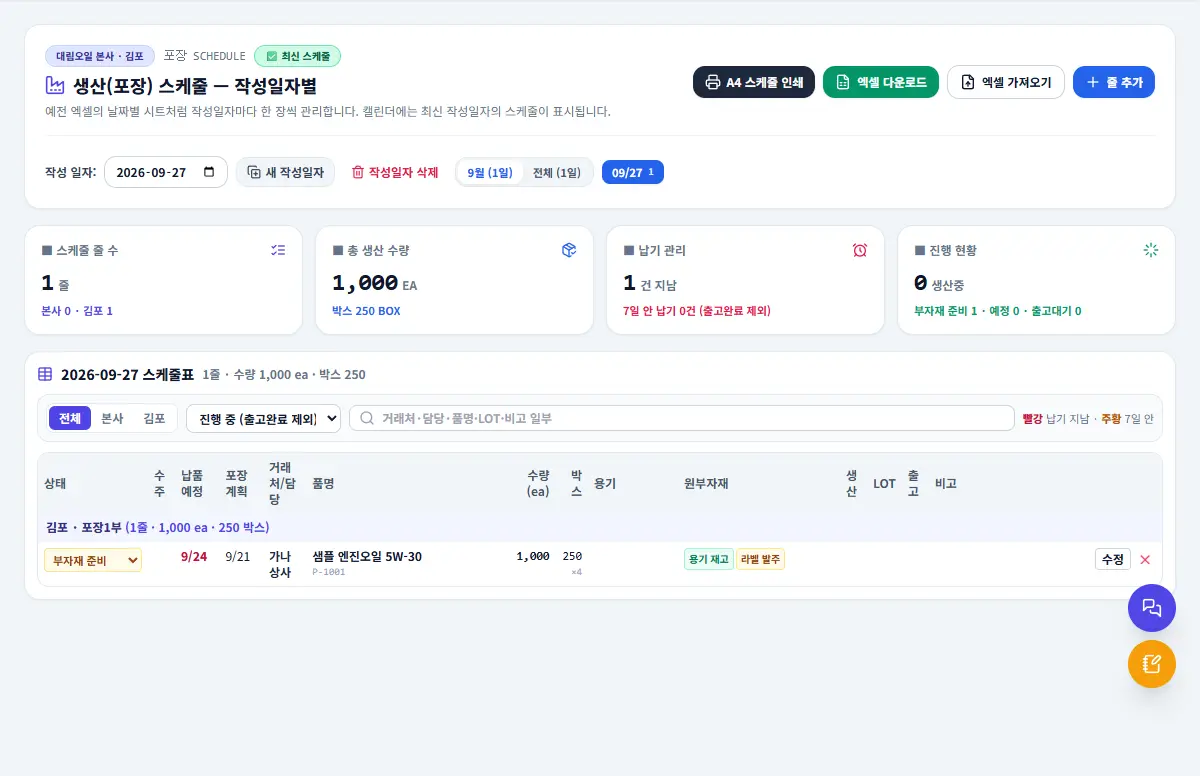
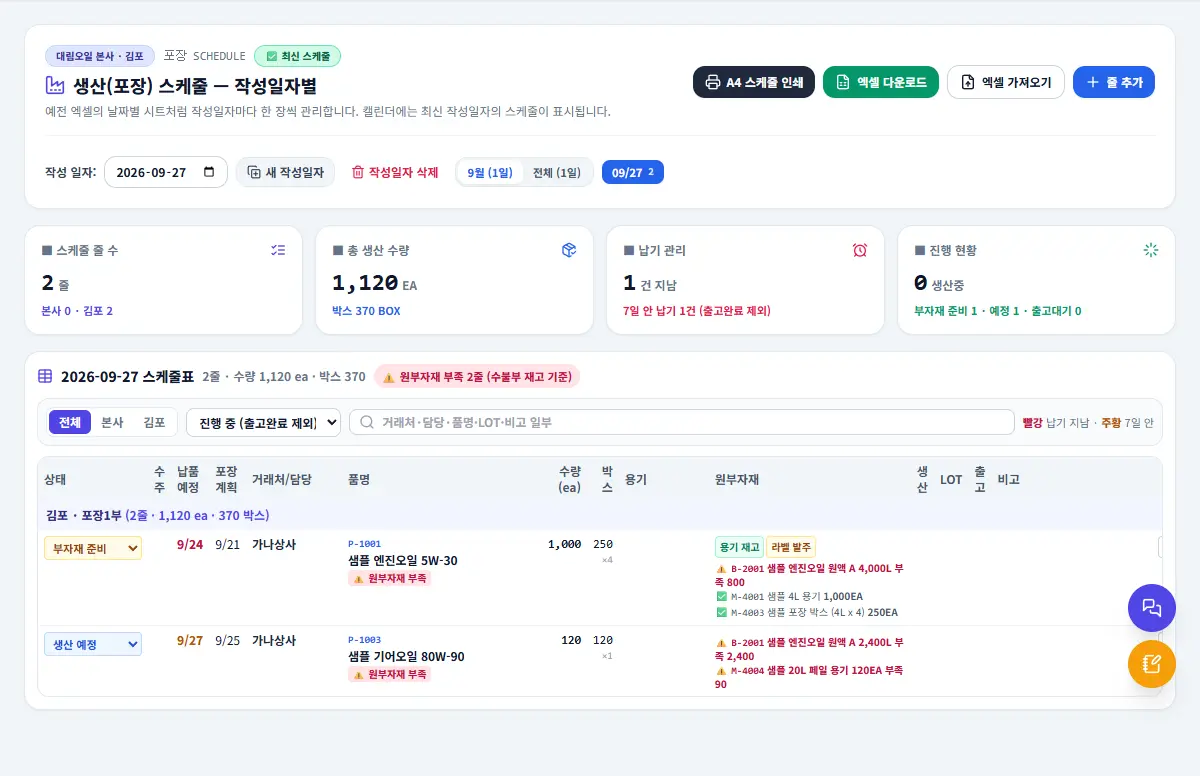
생산스케줄: 품목코드 입력칸, 소요 원액·원부자재(최대 5개) 검색·필요수량 등록과 수불부 재고·부족량 표시
- 입력 창: 품목코드 칸(입력하면 품명·규격 자동, 품명 검색 선택 시 코드 연결), 코드 없이 저장 시 확인
- 소요 원액·원부자재: 코드·품명 일부 검색(완제품 제외), 필요수량, BOM으로 채우기, 같은 품목 중복 방지
- 재고 연동: 수불부 재고(원료·원액 = 원료수불부, 부자재 = 자재수불부) + 창고 재고, 포장계획 빠른 줄부터 차감해 부족량 계산 (완료·출고 제외)
- 표·엑셀·A4 인쇄에 소요 품목과 부족량, '원부자재 부족 n줄' 표시
- DB: wms_production_schedule.mat_items (28_prod_schedule_mat_items.sql, 적용 완료)
- 매뉴얼: 생산(포장) 스케줄 장에 품목코드·소요 원부자재 사용법과 그림 추가

diff --git a/src/components/ProdScheduleTable.js b/src/components/ProdScheduleTable.js
@@ -1,10 +1,13 @@
 import * as XLSX from 'xlsx';
 import { state } from '../services/db.js';
 import { searchMasterItems, localDateStr, matchesQuery } from '../services/searchUtils.js';
-import { listProdSchedule, listProdDates, copyProdDate, deleteProdDate, saveProdRows, deleteProdRow, newProdId, PROD_STATUS, MATERIAL_KEYS } from '../services/prodSchedule.js';
+import { listProdSchedule, listProdDates, copyProdDate, deleteProdDate, saveProdRows, deleteProdRow, newProdId, PROD_STATUS, MATERIAL_KEYS, MAX_MAT_ITEMS } from '../services/prodSchedule.js';
 import { parseScheduleSheet, sheetToRows } from '../services/prodScheduleParse.js';
 import { createIcons, icons } from '../services/icons.js';
 import { esc } from '../services/html.js';
+import { siteOf } from '../services/locations.js';
+import { ledgerStock, getBoms, loadBoms } from '../services/plans.js';
+import { attachItemPicker } from './plans/planCommon.js';
 
 /**
  * 생산(포장) 스케줄표 — 캘린더 아래.
@@ -26,7 +29,43 @@ const matTone = (v) => {
     return 'text-amber-800 bg-amber-50 border-amber-200';
 };
 
+// ---------- 소요 원액·원부자재 재고 (수불부 연동) ----------
+const r3 = (n) => Math.round((Number(n) || 0) * 1000) / 1000;
+const schedSite = (r) => (r.site === '김포' ? '김포' : '본사');
+const invSiteOf = (site) => (site === '김포' ? '김포공장' : '본사');
+// 창고 재고 현황 (그 거점의 모든 창고 합계)
+const invStock = (code, site) => r3(state.inventory.filter(i => i.code === code && siteOf(i.location) === invSiteOf(site)).reduce((s, i) => s + (Number(i.quantity) || 0), 0));
+// 스케줄 줄들의 소요 품목에 재고를 배분한다: 출고완료·완료 줄은 이미 생산했으므로 빼고,
+// 남은 줄은 포장계획(없으면 납품예정)이 빠른 순서로 수불부 재고를 차감 (미정·보류 줄은 맨 뒤).
+// 결과: 줄 id → [{ ...품목, stock(수불부), inv(창고), avail(앞선 줄 사용 후 남은 재고), short(부족량), done }]
+export const allocateMats = (list) => {
+    const out = new Map();
+    const remain = new Map();
+    const whenOf = (r) => r.planDate || r.dueDate || '9999-99-99';
+    const order = [...list].filter(r => (r.matItems || []).length)
+        .sort((a, b) => (a.status === 'HOLD') - (b.status === 'HOLD') || whenOf(a).localeCompare(whenOf(b)) || (Number(a.sort) || 0) - (Number(b.sort) || 0));
+    for (const r of order) {
+        const site = schedSite(r);
+        const done = r.status === 'DONE' || r.status === 'SHIPPED';
+        out.set(r.id, (r.matItems || []).map(it => {
+            const need = Number(it.qty) || 0;
+            const stock = it.code ? ledgerStock(it.code, site).qty : 0;
+            const inv = it.code ? invStock(it.code, site) : 0;
+            if (done || !it.code) return { ...it, stock, inv, avail: stock, short: 0, done };
+            const key = `${it.code}|${site}`;
+            if (!remain.has(key)) remain.set(key, stock);
+            const avail = r3(remain.get(key));
+            remain.set(key, r3(avail - need));
+            return { ...it, stock, inv, avail, short: need > Math.max(0, avail) ? r3(need - Math.max(0, avail)) : 0, done };
+        }));
+    }
+    return out;
+};
+const matLine = (it) => `${it.code ? `${it.code} ` : ''}${it.name} ${fmt(it.qty)}${it.unit || ''}${it.done ? '' : it.short > 0 ? ` (부족 ${fmt(it.short)})` : it.code ? ' (재고 OK)' : ''}`;
+
 export const renderProdSchedule = (el, { showToast = () => {}, onChanged = () => {} } = {}) => {
+    let allocMap = new Map(); // 줄 id → 소요 품목 재고 배분 (draw 때 계산)
+    loadBoms().catch(() => {});
     let rows = [];            // 보고 있는 작성일자의 줄
     let dates = [];           // [{ date, count }] 최신순
     let cur = '';             // 보고 있는 작성일자
@@ -101,12 +140,14 @@ export const renderProdSchedule = (el, { showToast = () => {}, onChanged = () =>
             <td class="p-1.5 font-mono whitespace-nowrap">${esc(md(r.orderDate))}</td>
             <td class="p-1.5 whitespace-nowrap ${dueCls(r)}" title="${esc(r.dueText || r.dueDate)}">${esc(dateOrText(r.dueDate, r.dueText))}</td>
             <td class="p-1.5 whitespace-nowrap" title="${esc(r.planText || r.planDate)}">${esc(dateOrText(r.planDate, r.planText))}</td>
-            <td class="p-1.5"><div class="font-bold text-slate-800">${esc(r.partner)}</div><div class="text-[10px] text-slate-400">${esc(r.manager)}</div></td>
-            <td class="p-1.5 min-w-[200px]"><div class="font-bold text-slate-900">${esc(r.itemName)}</div>${r.itemCode ? `<div class="text-[10px] font-mono text-slate-400">${esc(r.itemCode)}</div>` : ''}</td>
+            <td class="p-1.5 min-w-[96px]"><div class="font-bold text-slate-800">${esc(r.partner)}</div><div class="text-[10px] text-slate-400">${esc(r.manager)}</div></td>
+            <td class="p-1.5 min-w-[200px]">${r.itemCode ? `<div class="text-[10px] font-mono font-bold text-blue-600">${esc(r.itemCode)}</div>` : '<div class="text-[10px] text-slate-300">코드 없음</div>'}<div class="font-bold text-slate-900">${esc(r.itemName)}</div>
+                ${(allocMap.get(r.id) || []).some(it => it.short > 0) ? '<span class="inline-block mt-0.5 px-1 rounded bg-rose-100 text-rose-700 text-[10px] font-black">⚠ 원부자재 부족</span>' : ''}</td>
             <td class="p-1.5 text-right font-mono font-black">${fmt(r.qty)}</td>
             <td class="p-1.5 text-right font-mono whitespace-nowrap">${fmt(boxesOf(r))}${r.perBox ? `<div class="text-[10px] text-slate-400">×${fmt(r.perBox)}</div>` : ''}</td>
             <td class="p-1.5 text-[11px] text-slate-600 min-w-[90px]">${esc(r.container)}</td>
-            <td class="p-1.5"><div class="flex flex-wrap gap-0.5 min-w-[150px]">${MATERIAL_KEYS.filter(([k]) => r.materials?.[k]).map(([k, label]) => `<span class="px-1 py-0.5 rounded border text-[10px] font-bold ${matTone(r.materials[k])}" title="${esc(label)}: ${esc(r.materials[k])}">${esc(label)} ${esc(r.materials[k].split('→').pop().trim().slice(0, 8))}</span>`).join('')}${r.matsDone ? '<span class="px-1 py-0.5 rounded bg-emerald-600 text-white text-[10px] font-black">완비</span>' : ''}</div></td>
+            <td class="p-1.5"><div class="flex flex-wrap gap-0.5 min-w-[150px]">${MATERIAL_KEYS.filter(([k]) => r.materials?.[k]).map(([k, label]) => `<span class="px-1 py-0.5 rounded border text-[10px] font-bold ${matTone(r.materials[k])}" title="${esc(label)}: ${esc(r.materials[k])}">${esc(label)} ${esc(r.materials[k].split('→').pop().trim().slice(0, 8))}</span>`).join('')}${r.matsDone ? '<span class="px-1 py-0.5 rounded bg-emerald-600 text-white text-[10px] font-black">완비</span>' : ''}</div>
+                ${(allocMap.get(r.id) || []).length ? `<div class="mt-1 space-y-0.5 min-w-[190px]">${(allocMap.get(r.id) || []).map(it => `<div class="text-[10px] leading-tight ${it.short > 0 ? 'text-rose-700 font-black' : 'text-slate-600'}" title="수불부 재고 ${fmt(it.stock)} · 창고 재고 ${fmt(it.inv)} · 앞선 줄 사용 후 ${fmt(Math.max(0, it.avail))}">${it.done ? '·' : it.short > 0 ? '⚠' : it.code ? '✅' : '·'} <span class="font-mono">${esc(it.code)}</span> ${esc(it.name)} <b>${fmt(it.qty)}${esc(it.unit || '')}</b>${!it.done && it.short > 0 ? ` 부족 ${fmt(it.short)}` : ''}</div>`).join('')}</div>` : ''}</td>
             <td class="p-1.5 font-mono whitespace-nowrap text-[11px]">${r.prodStart || r.prodEnd ? `${esc(md(r.prodStart))}~${esc(md(r.prodEnd))}` : ''}</td>
             <td class="p-1.5 font-mono text-[11px]">${esc(r.lotNo)}</td>
             <td class="p-1.5 font-mono whitespace-nowrap">${esc(md(r.shipDate))}</td>
@@ -118,6 +159,8 @@ export const renderProdSchedule = (el, { showToast = () => {}, onChanged = () =>
         </tr>`;
 
     const draw = () => {
+        allocMap = allocateMats(rows); // 필터와 무관하게 이 작성일자 전체로 재고 배분
+        const shortRows = rows.filter(r => (allocMap.get(r.id) || []).some(it => it.short > 0)).length;
         const list = filtered();
         const groups = groupsOf(list);
         const sum = (arr) => ({ qty: arr.reduce((s, r) => s + (Number(r.qty) || 0), 0), box: arr.reduce((s, r) => s + (Number(boxesOf(r)) || 0), 0) });
@@ -192,7 +235,8 @@ export const renderProdSchedule = (el, { showToast = () => {}, onChanged = () =>
         </div>
         <div class="bg-white p-3 rounded-2xl border border-slate-200 shadow-sm space-y-2.5">
             <div class="flex items-center gap-2 font-black text-sm text-slate-900"><i data-lucide="table" class="w-4 h-4 text-indigo-600"></i>${esc(cur)} 스케줄표
-                <span class="text-slate-500 font-bold text-xs">${loading ? '불러오는 중…' : `${list.length}줄 · 수량 ${fmt(total.qty)} ea · 박스 ${fmt(total.box)}`}</span></div>
+                <span class="text-slate-500 font-bold text-xs">${loading ? '불러오는 중…' : `${list.length}줄 · 수량 ${fmt(total.qty)} ea · 박스 ${fmt(total.box)}`}</span>
+                ${shortRows ? `<span class="px-2 py-0.5 rounded-full bg-rose-100 text-rose-700 text-[11px] font-black">⚠ 원부자재 부족 ${shortRows}줄 (수불부 재고 기준)</span>` : ''}</div>
             <div class="flex flex-wrap items-center gap-2 p-2 bg-slate-50 border border-slate-200 rounded-xl">
                 <div class="flex bg-white border border-slate-200 p-0.5 rounded-lg font-bold">${[['', '전체'], ['본사', '본사'], ['김포', '김포']].map(([v, t]) => `<button type="button" class="ps-site px-2.5 py-1 rounded-md ${f.site === v ? 'bg-indigo-600 text-white' : 'text-slate-500'}" data-v="${v}">${t}</button>`).join('')}</div>
                 <select id="ps-status-f" class="border border-slate-300 rounded-lg px-2 py-1 font-bold">
@@ -308,9 +352,9 @@ export const renderProdSchedule = (el, { showToast = () => {}, onChanged = () =>
 
     // ---------- 입력·수정 창 ----------
     const openEditor = (orig) => {
-        const r = orig ? { ...orig, materials: { ...(orig.materials || {}) } } : {
+        const r = orig ? { ...orig, materials: { ...(orig.materials || {}) }, matItems: (orig.matItems || []).map(x => ({ ...x })) } : {
             id: newProdId(), sheetDate: cur || today, site: f.site || '본사', line: '포장1부', status: 'PLANNED', orderDate: today, dueText: '', dueDate: '', planText: '', planDate: '',
-            partner: '', manager: '', itemCode: '', itemName: '', spec: '', qty: '', perBox: '', container: '', materials: {}, matsDone: false,
+            partner: '', manager: '', itemCode: '', itemName: '', spec: '', qty: '', perBox: '', container: '', materials: {}, matsDone: false, matItems: [],
             prodStart: '', prodEnd: '', lotNo: '', shipDate: '', notes: '', sort: (Math.max(0, ...rows.map(x => Number(x.sort) || 0)) + 1)
         };
         const m = el.querySelector('#ps-modal');
@@ -329,7 +373,9 @@ export const renderProdSchedule = (el, { showToast = () => {}, onChanged = () =>
                     <label class="block md:col-span-2"><span class="font-bold text-slate-500">거래처</span><input data-k="partner" list="ps-partner-list" value="${esc(r.partner)}" class="ps-f mt-0.5 w-full border border-slate-300 rounded-lg px-2 py-1.5 font-bold" /><datalist id="ps-partner-list">${[...new Set([...rows.map(x => x.partner), ...(state.partners || []).map(p => (typeof p === 'string' ? p : p.name))].filter(Boolean))].map(p => `<option value="${esc(p)}"></option>`).join('')}</datalist></label>
                     <label class="block"><span class="font-bold text-slate-500">영업 담당</span><input data-k="manager" list="ps-manager-list" value="${esc(r.manager)}" class="ps-f mt-0.5 w-full border border-slate-300 rounded-lg px-2 py-1.5 font-bold" /><datalist id="ps-manager-list">${[...new Set(rows.map(x => x.manager).filter(Boolean))].map(p => `<option value="${esc(p)}"></option>`).join('')}</datalist></label>
                     ${inp('lotNo', 'LOT.NO')}
-                    <label class="block md:col-span-3 relative"><span class="font-bold text-slate-500">품명 * <span class="font-normal text-slate-400">(품목마스터에서 고르면 코드 연결)</span></span><input data-k="itemName" value="${esc(r.itemName)}" autocomplete="off" class="ps-f mt-0.5 w-full border border-slate-300 rounded-lg px-2 py-1.5 font-bold" id="ps-item" />
+                    <label class="block"><span class="font-bold text-slate-500">품목코드 <span class="font-normal text-slate-400">(입력하면 품명 자동)</span></span><input data-k="itemCode" id="ps-code" value="${esc(r.itemCode)}" autocomplete="off" placeholder="예: P-1001" class="ps-f mt-0.5 w-full border border-blue-300 rounded-lg px-2 py-1.5 font-mono font-black text-blue-700" />
+                        <span id="ps-code-hint" class="block text-[10px] mt-0.5"></span></label>
+                    <label class="block md:col-span-2 relative"><span class="font-bold text-slate-500">품명 * <span class="font-normal text-slate-400">(코드·품명 일부로 검색해 고르면 코드 연결)</span></span><input data-k="itemName" value="${esc(r.itemName)}" autocomplete="off" class="ps-f mt-0.5 w-full border border-slate-300 rounded-lg px-2 py-1.5 font-bold" id="ps-item" />
                         <div id="ps-item-sg" class="hidden absolute left-0 right-0 top-full z-10 max-h-48 overflow-y-auto bg-white border border-slate-300 rounded-lg shadow-xl"></div></label>
                     ${inp('spec', '규격(L)')}
                     ${inp('qty', '수량(ea)', 'number', 'min="0" step="any"')}${inp('perBox', '박스 입수', 'number', 'min="0" step="any"')}
@@ -340,6 +386,17 @@ export const renderProdSchedule = (el, { showToast = () => {}, onChanged = () =>
                         <label class="flex items-center gap-1 font-bold"><input type="checkbox" data-k="matsDone" class="ps-f" ${r.matsDone ? 'checked' : ''} />원부자재 완비</label></div>
                     <div class="grid grid-cols-2 md:grid-cols-7 gap-1.5">${MATERIAL_KEYS.map(([k, label]) => `<label class="block"><span class="font-bold text-amber-800">${label}</span><input data-mat="${k}" value="${esc(r.materials[k] || '')}" class="ps-m mt-0.5 w-full border border-amber-300 rounded-lg px-1.5 py-1 font-bold bg-white" /></label>`).join('')}</div>
                 </div>
+                <div class="p-2.5 bg-sky-50 border border-sky-200 rounded-xl space-y-2">
+                    <div class="flex flex-wrap items-center justify-between gap-2">
+                        <span class="font-black text-sky-900">소요 원액·원부자재 (최대 ${MAX_MAT_ITEMS}개) · 수불부 재고 연동</span>
+                        <div class="flex gap-1.5">
+                            <button type="button" id="ps-mat-bom" class="px-2 py-1 bg-white border border-sky-300 rounded-lg font-bold text-sky-800" title="품목코드의 BOM(배합비) × 수량으로 채웁니다">BOM으로 채우기</button>
+                            <button type="button" id="ps-mat-add" class="px-2 py-1 bg-sky-600 hover:bg-sky-700 text-white rounded-lg font-bold">+ 품목 추가</button>
+                        </div>
+                    </div>
+                    <div id="ps-mat-rows" class="space-y-1.5"></div>
+                    <p class="text-[10px] text-sky-800">재고는 <b>원료·원액 = 원료수불부</b>, <b>부자재 = 자재수불부</b>의 이 거점 재고입니다 (창고 재고현황도 함께 표시). 같은 자재를 쓰는 다른 줄 중 <b>포장계획이 빠른 줄이 먼저</b> 쓰는 것으로 계산해 부족량을 보여 줍니다.</p>
+                </div>
                 <div class="grid grid-cols-2 md:grid-cols-4 gap-2">${inp('prodStart', '생산 시작일', 'date')}${inp('prodEnd', '생산 완료일', 'date')}${inp('shipDate', '출고일', 'date')}</div>
                 <label class="block"><span class="font-bold text-slate-500">비고</span><textarea data-k="notes" rows="2" class="ps-f mt-0.5 w-full border border-slate-300 rounded-lg px-2 py-1.5">${esc(r.notes)}</textarea></label>
                 <div class="flex justify-end gap-2"><button type="button" class="ps-close px-3 py-2 bg-white border border-slate-300 rounded-lg font-bold">취소</button><button type="button" id="ps-save" class="px-4 py-2 bg-indigo-600 hover:bg-indigo-700 text-white rounded-lg font-black">${orig ? '저장' : '추가'}</button></div>
@@ -348,23 +405,121 @@ export const renderProdSchedule = (el, { showToast = () => {}, onChanged = () =>
         const close = () => { m.classList.add('hidden'); m.classList.remove('flex'); m.innerHTML = ''; };
         m.querySelectorAll('.ps-close').forEach(b => b.addEventListener('click', close));
         const itemInp = m.querySelector('#ps-item');
+        const codeInp = m.querySelector('#ps-code');
+        const codeHint = m.querySelector('#ps-code-hint');
+        const specInp = m.querySelector('.ps-f[data-k="spec"]');
         const sg = m.querySelector('#ps-item-sg');
         let found = [];
+        const showCodeHint = () => {
+            const code = codeInp.value.trim();
+            const mm = code && state.master.find(x => x.code.toLowerCase() === code.toLowerCase());
+            codeHint.className = `block text-[10px] mt-0.5 ${!code ? 'text-slate-400' : mm ? 'text-emerald-700 font-bold' : 'text-rose-600 font-bold'}`;
+            codeHint.textContent = !code ? '품목코드가 있어야 생산계획·재고와 정확히 연동됩니다' : mm ? `✅ ${mm.name}` : '품목 마스터에 없는 코드입니다';
+        };
+        // 품목 선택 → 코드·품명·규격을 함께 채운다
+        const pickItem = (it) => {
+            r.itemCode = it.code;
+            codeInp.value = it.code;
+            itemInp.value = it.name;
+            if (specInp && !specInp.value.trim() && it.spec && it.spec !== '-') specInp.value = it.spec;
+            showCodeHint();
+        };
         itemInp.addEventListener('input', () => {
-            r.itemCode = '';
             found = itemInp.value.trim() ? searchMasterItems(itemInp.value, 12) : [];
-            sg.innerHTML = found.map((it, i) => `<button type="button" data-i="${i}" class="w-full text-left px-2 py-1.5 border-b border-slate-100 hover:bg-indigo-50"><span class="font-mono font-bold">${esc(it.code)}</span> ${esc(it.name)} <span class="text-slate-400">${esc(it.spec && it.spec !== '-' ? it.spec : '')}</span></button>`).join('');
+            sg.innerHTML = found.map((it, i) => `<button type="button" data-i="${i}" class="w-full text-left px-2 py-1.5 border-b border-slate-100 hover:bg-indigo-50"><span class="font-mono font-bold text-blue-600">${esc(it.code)}</span> ${esc(it.name)} <span class="text-slate-400">${esc(it.spec && it.spec !== '-' ? it.spec : '')}</span></button>`).join('');
             sg.classList.toggle('hidden', !found.length);
             sg.querySelectorAll('button').forEach(b => {
                 b.addEventListener('mousedown', (e) => e.preventDefault());
-                b.addEventListener('click', () => { const it = found[Number(b.dataset.i)]; r.itemCode = it.code; itemInp.value = it.name; sg.classList.add('hidden'); });
+                b.addEventListener('click', () => { pickItem(found[Number(b.dataset.i)]); sg.classList.add('hidden'); });
             });
         });
         itemInp.addEventListener('blur', () => setTimeout(() => sg.classList.add('hidden'), 150));
+        codeInp.addEventListener('change', () => {
+            const code = codeInp.value.trim();
+            const mm = code && state.master.find(x => x.code.toLowerCase() === code.toLowerCase());
+            if (mm) pickItem(mm); else showCodeHint();
+        });
+        codeInp.addEventListener('input', showCodeHint);
+        showCodeHint();
+
+        // ---------- 소요 원액·원부자재 (최대 5개) ----------
+        const matHost = m.querySelector('#ps-mat-rows');
+        // 폼의 지금 값(거점·상태·포장계획)으로 다른 줄과 함께 재고를 배분해 이 줄의 재고·부족량을 구한다
+        const formRow = () => {
+            const x = { ...r, matItems: r.matItems };
+            m.querySelectorAll('.ps-f').forEach(el2 => { if (['site', 'status', 'planDate', 'dueDate'].includes(el2.dataset.k)) x[el2.dataset.k] = el2.value; });
+            return x;
+        };
+        const matInfo = () => {
+            const me = formRow();
+            const list = [...(cur === r.sheetDate ? rows : (latestRows || [])).filter(x => x.id !== r.id), me];
+            return allocateMats(list).get(r.id) || [];
+        };
+        const infoHtml = (it) => {
+            if (!it || !it.code) return '<span class="text-slate-400">품목을 고르면 재고가 보입니다</span>';
+            const st = it.done ? '<span class="text-slate-500">완료된 줄 (재고 차감 안 함)</span>'
+                : it.short > 0 ? `<span class="text-rose-700 font-black">⚠ 부족 ${fmt(it.short)} ${esc(it.unit || '')}</span>` : '<span class="text-emerald-700 font-black">✅ 재고 충분</span>';
+            const after = r3(it.avail) === r3(it.stock) ? '' : it.avail >= 0 ? ` · 앞선 줄 사용 후 <b>${fmt(it.avail)}</b>` : ` · 앞선 줄이 다 쓰고 <b>${fmt(-it.avail)}</b> 부족`;
+            return `수불부 <b>${fmt(it.stock)}</b> · 창고 ${fmt(it.inv)}${after} → ${st}`;
+        };
+        const updateInfo = () => { const info = matInfo(); matHost.querySelectorAll('.ps-mat-info').forEach(elx => { elx.innerHTML = infoHtml(info[Number(elx.dataset.i)]); }); };
+        const renderMats = () => {
+            m.querySelector('#ps-mat-add').disabled = r.matItems.length >= MAX_MAT_ITEMS;
+            m.querySelector('#ps-mat-add').classList.toggle('opacity-40', r.matItems.length >= MAX_MAT_ITEMS);
+            matHost.innerHTML = r.matItems.length === 0 ? '<div class="text-[11px] text-sky-700/70 py-1">등록된 소요 품목이 없습니다. [+ 품목 추가]로 원액·원부자재를 검색해 넣거나 [BOM으로 채우기]를 누르세요.</div>'
+                : r.matItems.map((it, i) => `
+                <div class="grid grid-cols-12 gap-1.5 items-start bg-white border border-sky-200 rounded-lg p-1.5">
+                    <div class="col-span-12 md:col-span-5"><input type="text" data-i="${i}" value="${esc(it.name)}" placeholder="품목코드·품명 일부 (원액·원료·부자재)" class="ps-mat-item w-full border border-slate-300 rounded-md px-1.5 py-1 font-bold" autocomplete="off" />
+                        <div class="text-[10px] font-mono text-blue-600 mt-0.5">${esc(it.code || '')}${it.category ? ` · ${esc(it.category)}` : ''}</div></div>
+                    <div class="col-span-5 md:col-span-2"><input type="number" min="0" step="any" data-i="${i}" value="${esc(it.qty ?? '')}" placeholder="필요수량" class="ps-mat-qty w-full border border-slate-300 rounded-md px-1.5 py-1 text-right font-black" /></div>
+                    <div class="col-span-3 md:col-span-1"><input type="text" data-i="${i}" value="${esc(it.unit || '')}" placeholder="단위" class="ps-mat-unit w-full border border-slate-300 rounded-md px-1.5 py-1" /></div>
+                    <div class="col-span-3 md:col-span-3 text-[10px] leading-snug pt-1 ps-mat-info" data-i="${i}"></div>
+                    <div class="col-span-1 text-right"><button type="button" data-i="${i}" class="ps-mat-del text-rose-500 font-black px-1.5 py-1" title="빼기">&times;</button></div>
+                </div>`).join('');
+            matHost.querySelectorAll('.ps-mat-item').forEach(inpx => attachItemPicker(inpx, (it) => {
+                const i = Number(inpx.dataset.i);
+                if (r.matItems.some((x, j) => j !== i && x.code === it.code)) { alert(`[${it.code}] ${it.name}은(는) 이미 넣은 품목입니다. 그 줄의 수량을 고치세요.`); inpx.value = r.matItems[i].name || ''; return; }
+                r.matItems[i] = { ...r.matItems[i], code: it.code, name: it.name, category: it.category || '', unit: it.unit || r.matItems[i].unit || '' };
+                renderMats();
+            }, (it) => it.category !== '완제품'));
+            matHost.querySelectorAll('.ps-mat-qty').forEach(inpx => inpx.addEventListener('input', () => { r.matItems[Number(inpx.dataset.i)].qty = inpx.value === '' ? '' : Number(inpx.value); updateInfo(); }));
+            matHost.querySelectorAll('.ps-mat-unit').forEach(inpx => inpx.addEventListener('input', () => { r.matItems[Number(inpx.dataset.i)].unit = inpx.value.trim(); }));
+            matHost.querySelectorAll('.ps-mat-del').forEach(b => b.addEventListener('click', () => { r.matItems.splice(Number(b.dataset.i), 1); renderMats(); }));
+            updateInfo();
+        };
+        m.querySelector('#ps-mat-add').addEventListener('click', () => {
+            if (r.matItems.length >= MAX_MAT_ITEMS) { alert(`소요 품목은 최대 ${MAX_MAT_ITEMS}개까지입니다.`); return; }
+            r.matItems.push({ code: '', name: '', category: '', unit: '', qty: '' });
+            renderMats();
+            matHost.querySelectorAll('.ps-mat-item')[r.matItems.length - 1]?.focus();
+        });
+        m.querySelector('#ps-mat-bom').addEventListener('click', () => {
+            const code = codeInp.value.trim();
+            const qty = Number(m.querySelector('.ps-f[data-k="qty"]').value) || 0;
+            if (!code) { alert('먼저 품목코드를 넣거나 품명을 검색해 고르세요.'); return; }
+            if (!(qty > 0)) { alert('먼저 수량(ea)을 넣으세요.'); return; }
+            const bom = getBoms()[code];
+            const list = [...(bom?.rawList || []), ...(bom?.subList || [])].filter(x => x.code && Number(x.rate) > 0);
+            if (!list.length) { alert(`[${code}]의 BOM(배합비)이 없습니다.\n제품생산 / 입고 화면에서 이 제품의 원액·부자재 사용량을 넣고 [배합비 저장]을 누르세요.`); return; }
+            if (r.matItems.some(x => x.code || x.name) && !confirm('지금 소요 품목을 BOM 기준으로 바꿀까요?')) return;
+            r.matItems = list.slice(0, MAX_MAT_ITEMS).map(x => {
+                const mm = state.master.find(y => y.code === x.code) || {};
+                return { code: x.code, name: mm.name || x.code, category: mm.category || '', unit: mm.unit || '', qty: r3(Number(x.rate) * qty) };
+            });
+            if (list.length > MAX_MAT_ITEMS) showToast(`BOM 품목이 ${list.length}개라 앞의 ${MAX_MAT_ITEMS}개만 넣었습니다.`);
+            renderMats();
+        });
+        // 거점·상태·포장계획이 바뀌면 재고 배분이 달라진다
+        m.querySelectorAll('.ps-f[data-k="site"], .ps-f[data-k="status"], .ps-f[data-k="planDate"], .ps-f[data-k="dueDate"]').forEach(x => x.addEventListener('change', updateInfo));
+        renderMats();
+
         m.querySelector('#ps-save').addEventListener('click', async () => {
             m.querySelectorAll('.ps-f').forEach(x => { r[x.dataset.k] = x.type === 'checkbox' ? x.checked : x.value.trim(); });
             m.querySelectorAll('.ps-m').forEach(x => { const v = x.value.trim(); if (v) r.materials[x.dataset.mat] = v; else delete r.materials[x.dataset.mat]; });
             if (!r.itemName) { alert('품명을 입력하세요.'); return; }
+            if (!r.itemCode && !confirm('품목코드 없이 저장할까요?\n(품목코드가 있어야 생산계획·BOM·재고와 정확히 연동됩니다)')) return;
+            if (r.matItems.some(x => (x.code || x.name) && !(Number(x.qty) > 0))) { alert('소요 원부자재의 필요수량을 넣으세요.'); return; }
+            r.matItems = r.matItems.filter(x => x.code || x.name);
             try {
                 const [savedRow] = await saveProdRows([r]);
                 // 캘린더에서 연 줄은 지금 보는 작성일자가 아닐 수 있다
@@ -380,11 +535,12 @@ export const renderProdSchedule = (el, { showToast = () => {}, onChanged = () =>
 
     // ---------- 엑셀 내보내기 ----------
     const exportXlsx = (list) => {
-        const head = ['구분', '라인', '상태', '수주일', '납품예정', '포장계획', '거래처', '담당', '품목코드', '품명', '규격(L)', '수량(ea)', '박스입수', '박스량', '용기', ...MATERIAL_KEYS.map(([, l]) => l), '원부자재완비', '생산시작', '생산완료', 'LOT.NO', '출고일', '비고'];
+        const head = ['구분', '라인', '상태', '수주일', '납품예정', '포장계획', '거래처', '담당', '품목코드', '품명', '규격(L)', '수량(ea)', '박스입수', '박스량', '용기', ...MATERIAL_KEYS.map(([, l]) => l), '원부자재완비', '생산시작', '생산완료', 'LOT.NO', '출고일', '비고', '소요 원부자재 (필요수량·부족)'];
         const data = groupsOf(list).flatMap(g => g.rows).map(r => [r.site, r.line, PROD_STATUS[r.status]?.label || r.status, r.orderDate, r.dueText || r.dueDate, r.planText || r.planDate, r.partner, r.manager, r.itemCode, r.itemName, r.spec,
-            r.qty === '' ? '' : Number(r.qty), r.perBox === '' ? '' : Number(r.perBox), boxesOf(r) === '' ? '' : Math.round(boxesOf(r) * 10) / 10, r.container, ...MATERIAL_KEYS.map(([k]) => r.materials?.[k] || ''), r.matsDone ? 'O' : '', r.prodStart, r.prodEnd, r.lotNo, r.shipDate, r.notes]);
+            r.qty === '' ? '' : Number(r.qty), r.perBox === '' ? '' : Number(r.perBox), boxesOf(r) === '' ? '' : Math.round(boxesOf(r) * 10) / 10, r.container, ...MATERIAL_KEYS.map(([k]) => r.materials?.[k] || ''), r.matsDone ? 'O' : '', r.prodStart, r.prodEnd, r.lotNo, r.shipDate, r.notes,
+            (allocMap.get(r.id) || []).map(matLine).join(' / ')]);
         const ws = XLSX.utils.aoa_to_sheet([head, ...data]);
-        ws['!cols'] = head.map((h, i) => ({ wch: [6, 8, 10, 11, 11, 11, 18, 8, 11, 36, 7, 9, 8, 8, 18, 9, 9, 9, 9, 9, 8, 8, 8, 11, 11, 11, 11, 40][i] || 10 }));
+        ws['!cols'] = head.map((h, i) => ({ wch: [6, 8, 10, 11, 11, 11, 18, 8, 11, 36, 7, 9, 8, 8, 18, 9, 9, 9, 9, 9, 8, 8, 8, 11, 11, 11, 11, 40, 70][i] || 10 }));
         const wb = XLSX.utils.book_new();
         XLSX.utils.book_append_sheet(wb, ws, (cur || today).slice(5).replace('-', ''));
         XLSX.writeFile(wb, `생산스케줄_작성${cur || today}.xlsx`);
@@ -399,14 +555,14 @@ export const renderProdSchedule = (el, { showToast = () => {}, onChanged = () =>
             const q = g.rows.reduce((s, r) => s + (Number(r.qty) || 0), 0);
             const b = g.rows.reduce((s, r) => s + (Number(boxesOf(r)) || 0), 0);
             return `<tr class="grp"><td colspan="13">${esc(g.key)} — ${g.rows.length}줄 · ${fmt(q)} ea · ${fmt(b)} 박스</td></tr>`
-                + g.rows.map(r => `<tr>${cell(PROD_STATUS[r.status]?.label)}${cell(md(r.orderDate))}${cell(dateOrText(r.dueDate, r.dueText))}${cell(dateOrText(r.planDate, r.planText))}${cell(`${r.partner}${r.manager ? ` / ${r.manager}` : ''}`)}${cell(r.itemName, 'name')}${cell(fmt(r.qty), 'num')}${cell(`${fmt(boxesOf(r))}${r.perBox ? ` (×${fmt(r.perBox)})` : ''}`, 'num')}${cell(r.container)}${cell(MATERIAL_KEYS.filter(([k]) => r.materials?.[k]).map(([k, l]) => `${l}:${r.materials[k]}`).join(' · '), 'small')}${cell(r.lotNo)}${cell(md(r.shipDate))}${cell(r.notes, 'small')}</tr>`).join('');
+                + g.rows.map(r => `<tr>${cell(PROD_STATUS[r.status]?.label)}${cell(md(r.orderDate))}${cell(dateOrText(r.dueDate, r.dueText))}${cell(dateOrText(r.planDate, r.planText))}${cell(`${r.partner}${r.manager ? ` / ${r.manager}` : ''}`)}${cell(`${r.itemCode ? `[${r.itemCode}] ` : ''}${r.itemName}`, 'name')}${cell(fmt(r.qty), 'num')}${cell(`${fmt(boxesOf(r))}${r.perBox ? ` (×${fmt(r.perBox)})` : ''}`, 'num')}${cell(r.container)}<td class="small">${esc(MATERIAL_KEYS.filter(([k]) => r.materials?.[k]).map(([k, l]) => `${l}:${r.materials[k]}`).join(' · '))}${(allocMap.get(r.id) || []).map(it => `<div class="${!it.done && it.short > 0 ? 'short' : ''}">${esc(matLine(it))}</div>`).join('')}</td>${cell(r.lotNo)}${cell(md(r.shipDate))}${cell(r.notes, 'small')}</tr>`).join('');
         }).join('');
         w.document.write(`<!DOCTYPE html><html lang="ko"><head><meta charset="utf-8"><title>생산 스케줄 ${cur}</title><style>
             @page { size: A4 landscape; margin: 8mm; } body { font-family: 'Malgun Gothic', sans-serif; font-size: 8pt; color: #000; }
             h1 { font-size: 14pt; margin: 0 0 4px; } .sub { font-size: 8pt; color: #444; margin-bottom: 6px; }
             table { width: 100%; border-collapse: collapse; table-layout: auto; } th, td { border: 0.5pt solid #555; padding: 2px 3px; vertical-align: top; }
             th { background: #e5e7eb; font-weight: 800; } .grp td { background: #eef2ff; font-weight: 800; } .num { text-align: right; white-space: nowrap; }
-            .name { font-weight: 700; min-width: 160px; } .small { font-size: 7pt; } tr { page-break-inside: avoid; }
+            .name { font-weight: 700; min-width: 160px; } .small { font-size: 7pt; } tr { page-break-inside: avoid; } .short { color: #c00; font-weight: 800; }
         </style></head><body><h1>대림오일 생산(포장) SCHEDULE</h1><div class="sub">작성일자 ${cur} · 출력일 ${today} · ${f.site || '본사·김포'} · ${f.status === 'ACTIVE' ? '진행 중' : f.status === 'ALL' ? '전체' : PROD_STATUS[f.status]?.label} · ${list.length}줄</div>
             <table><thead><tr><th>상태</th><th>수주</th><th>납품예정</th><th>포장계획</th><th>거래처/담당</th><th>품명</th><th>수량(ea)</th><th>박스</th><th>용기</th><th>원부자재</th><th>LOT</th><th>출고</th><th>비고</th></tr></thead><tbody>${body}</tbody></table>
             <script>window.onload = function () { setTimeout(function () { window.print(); }, 200); };<\/script></body></html>`);

diff --git a/src/data/manualContent.js b/src/data/manualContent.js
@@ -134,11 +134,33 @@ const USER_MANUAL = {
                     image: 'prod-schedule.webp', caption: '생산(포장) 스케줄 — 작성일자별',
                     steps: [
                         '`작성 일자`를 고릅니다. 오늘 스케줄을 새로 쓰려면 `새 작성일자`를 누르면 **가장 최근 스케줄이 복사**됩니다.',
-                        '`+ 줄 추가`로 주문을 넣습니다 (구분 본사/김포, 라인, 거래처, 품명, 수량, 납품예정, 포장계획, 원부자재 등).',
+                        '`+ 줄 추가`로 주문을 넣습니다 (구분 본사/김포, 라인, 거래처, 품목코드·품명, 수량, 납품예정, 포장계획, 원부자재 등).',
                         '진행에 따라 **상태**(보류·예정·준비·생산중·완료·출고)를 바꿉니다. 생산중·완료·출고로 바꾸면 날짜가 자동으로 들어갑니다.',
-                        '`A4 스케줄 인쇄`, `엑셀 다운로드`를 씁니다. 예전 엑셀 파일은 `엑셀 가져오기`로 날짜 시트를 옮깁니다 (이미 있는 줄은 건너뜀).'
+                        '표의 `원부자재` 칸에 소요 품목과 재고 상태(✅ 충분 / ⚠ 부족 n)가 보이고, 모자란 줄은 품명 아래 **⚠ 원부자재 부족**, 표 위에 **원부자재 부족 n줄**로 표시됩니다.',
+                        '`A4 스케줄 인쇄`, `엑셀 다운로드`를 씁니다 (소요 원부자재와 부족량도 함께 나옵니다). 예전 엑셀 파일은 `엑셀 가져오기`로 날짜 시트를 옮깁니다 (이미 있는 줄은 건너뜀).'
                     ],
                     tips: ['캘린더에는 **최신 작성일자**의 포장계획(🏭)·납품예정(🚚)이 표시되고, 누르면 바로 수정 창이 열립니다.', '납기가 지난 줄은 빨강, 7일 안은 주황으로 표시됩니다.']
+                },
+                {
+                    title: '품목코드와 소요 원액·원부자재 등록',
+                    image: 'prod-schedule-edit.webp', caption: '줄 추가·수정 창: 품목코드, 소요 원액·원부자재(최대 5개)와 수불부 재고·부족량',
+                    steps: [
+                        '`품목코드`에 코드를 넣으면(대소문자 무관) 품명·규격이 자동으로 채워집니다. 또는 `품명` 칸에 코드·품명 일부를 입력해 목록에서 고르면 코드가 함께 들어갑니다. 코드 아래 ✅ 표시로 연결을 확인합니다.',
+                        '`소요 원액·원부자재`에서 `+ 품목 추가`를 누르고, 코드·품명 일부(예: `원액`, `4L 용기`, `B-2001`)로 검색해 고른 뒤 **필요수량**을 넣습니다. 원액·원료·부자재 중 **최대 5개**까지 넣을 수 있습니다.',
+                        '제품의 BOM(배합비)이 저장되어 있으면 품목코드와 수량을 넣고 `BOM으로 채우기`를 누르면 원액·부자재와 필요수량이 자동으로 들어갑니다.',
+                        '품목마다 **수불부 재고 · 창고 재고 · 앞선 줄 사용 후 남는 재고**와 결과(✅ 재고 충분 / ⚠ 부족 n)가 바로 보입니다.',
+                        '`저장`을 누르면 표에 소요 품목과 부족량이 표시됩니다.'
+                    ],
+                    tips: [
+                        '재고는 원료·원액은 **원료수불부**, 부자재는 **자재수불부**의 그 거점(본사/김포) 재고입니다 (수불부에 없으면 창고 재고).',
+                        '같은 자재를 여러 줄이 쓰면 **포장계획(없으면 납품예정)이 빠른 줄부터** 재고를 먼저 쓰는 것으로 계산합니다. 미정·보류 줄은 맨 뒤, 완료·출고완료 줄은 이미 생산했으므로 계산에서 뺍니다.',
+                        '기존 원부자재 상태 글자 칸(발주 9/17 · 재고 · 완 …)은 그대로 씁니다.'
+                    ],
+                    cautions: [
+                        '같은 품목은 한 번만 넣을 수 있습니다 (수량을 고치세요). 품목을 넣고 필요수량을 비우면 저장되지 않습니다.',
+                        '부족 표시는 **확인용**입니다. 부족한 원액·원부자재를 계획에 넣으려면 `생산관리 → 생산계획`에서 생산스케줄을 불러와 부족분을 원액 생산계획·구매계획에 반영하세요.',
+                        '품목코드 없이도 저장할 수 있지만(확인 창이 뜸), 코드가 있어야 생산계획·BOM·재고와 정확히 연결됩니다.'
+                    ]
                 }
             ]
         },

diff --git a/src/services/prodSchedule.js b/src/services/prodSchedule.js
@@ -19,12 +19,19 @@ export const MATERIAL_KEYS = [
 ];
 
 const d = (v) => v || null;
+// 소요 원액·원부자재 (최대 5개, supabase/auth/28_prod_schedule_mat_items.sql)
+export const MAX_MAT_ITEMS = 5;
+const cleanMatItems = (list) => (Array.isArray(list) ? list : [])
+    .filter(m => m && (m.code || m.name))
+    .slice(0, MAX_MAT_ITEMS)
+    .map(m => ({ code: m.code || '', name: m.name || '', category: m.category || '', unit: m.unit || '', qty: m.qty === '' || m.qty === null || m.qty === undefined ? null : Number(m.qty) }));
 export const fromRow = (r) => ({
     id: r.id, sheetDate: r.sheet_date || '', site: r.site || '본사', line: r.line || '', status: r.status || 'PLANNED',
     orderDate: r.order_date || '', dueText: r.due_text || '', dueDate: r.due_date || '', planText: r.plan_text || '', planDate: r.plan_date || '',
     partner: r.partner || '', manager: r.manager || '', itemCode: r.item_code || '', itemName: r.item_name || '', spec: r.spec || '',
     qty: r.qty === null || r.qty === undefined ? '' : Number(r.qty), perBox: r.per_box === null || r.per_box === undefined ? '' : Number(r.per_box),
     container: r.container || '', materials: r.materials || {}, matsDone: !!r.mats_done,
+    matItems: Array.isArray(r.mat_items) ? r.mat_items : [],
     prodStart: r.prod_start || '', prodEnd: r.prod_end || '', lotNo: r.lot_no || '', shipDate: r.ship_date || '', notes: r.notes || '',
     sort: r.sort_order || 0, updatedAt: r.updated_at
 });
@@ -34,6 +41,7 @@ const toRow = (x) => ({
     partner: x.partner || null, manager: x.manager || null, item_code: x.itemCode || null, item_name: String(x.itemName || '').trim(), spec: x.spec || null,
     qty: x.qty === '' || x.qty === null ? null : Number(x.qty), per_box: x.perBox === '' || x.perBox === null ? null : Number(x.perBox),
     container: x.container || null, materials: x.materials || {}, mats_done: !!x.matsDone,
+    mat_items: cleanMatItems(x.matItems),
     prod_start: d(x.prodStart), prod_end: d(x.prodEnd), lot_no: x.lotNo || null, ship_date: d(x.shipDate), notes: x.notes || null,
     sort_order: Number(x.sort) || 0, updated_at: new Date().toISOString()
 });
